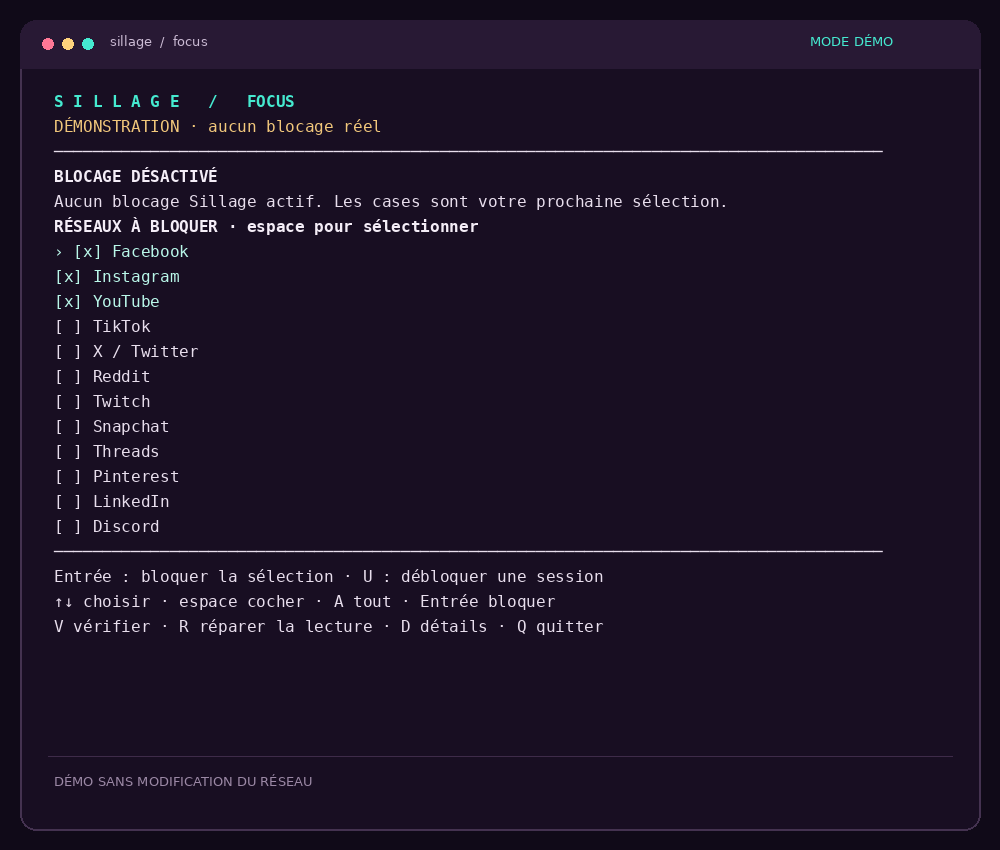
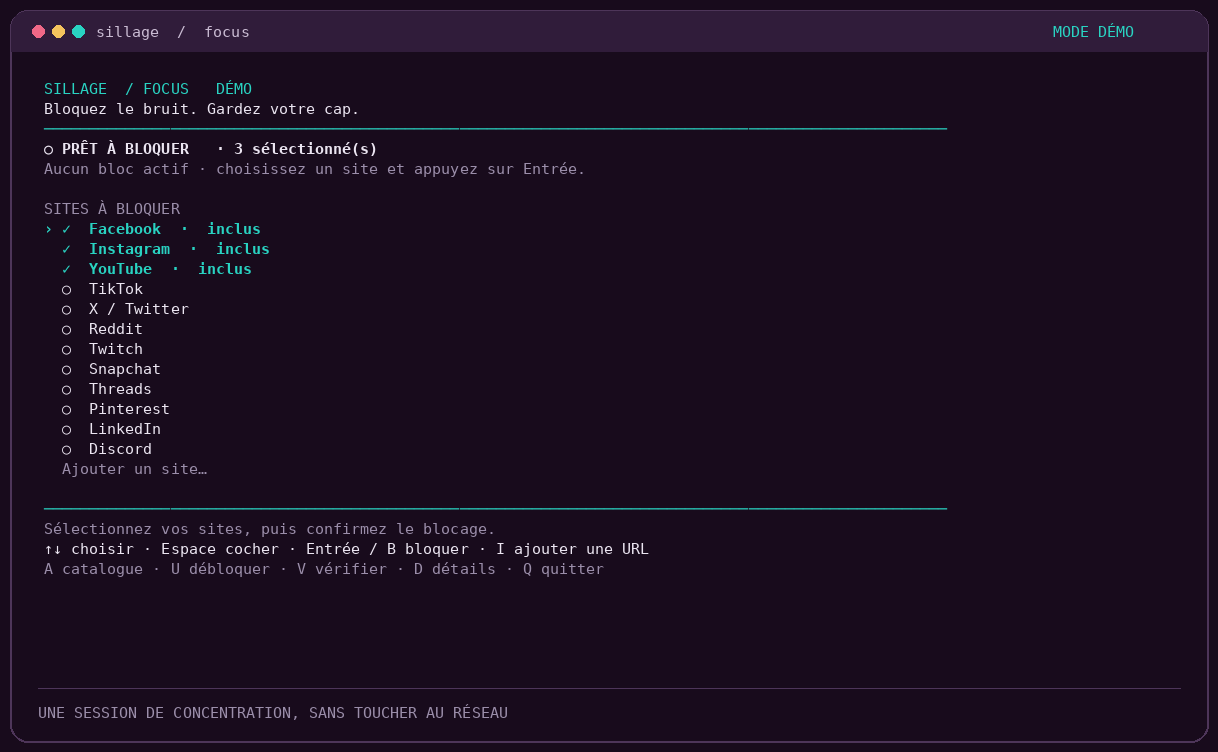
feat(ui): guide custom site blocking

Changed region(s): [[0.0, 0.0, 1.0, 1.0]]

diff --git a/src/ui.js b/src/ui.js
@@ -1,29 +1,20 @@
 import * as p from '@clack/prompts';
 import pc from 'picocolors';
-import { services, defaults, selectServices } from './catalog.js';
+import { services, defaults, selectServices, normalizeSite } from './catalog.js';
 
-const names = ids => selectServices(ids).map(item => item.name).join(', ');
-const checked = value => {
-  if (p.isCancel(value)) { p.cancel('Annulé. Aucune nouvelle modification.'); return null; }
-  return value;
-};
+const names = ids => ids.length ? selectServices(ids).map(item => item.name).join(' · ') : 'Sites personnalisés';
 
 export function banner(demo = false) {
-  const width = Math.max(24, Math.min(62, (process.stdout.columns || 80) - 4));
   console.log();
-  console.log(`  ${pc.cyan('━'.repeat(width))}`);
-  console.log(`  ${pc.bold('S I L L A G E')}  ${pc.cyan(' / CONCENTRATION')}`);
-  console.log('  Bloquez les distractions. Concentrez-vous.');
-  console.log(`  ${pc.cyan('━'.repeat(width))}`);
+  console.log(`  ${pc.bold(pc.cyan('SILLAGE'))}  ${pc.dim('/ FOCUS')}`);
+  console.log(`  Bloquez le bruit. Gardez votre cap.${demo ? pc.yellow('  ·  DÉMO') : ''}`);
   console.log();
-  if (demo) console.log(`  ${pc.bold('MODE DÉMO')} · aucun blocage réel\n`);
-
 }
 
 export function showStatus(state) {
   p.log.info(state.active
-    ? `${pc.green('CONCENTRATION')}\n${names(state.ids)}\n${pc.dim('Entrées présentes dans hosts · sillage unblock pour les retirer')}`
-    : `${pc.bold('BLOCAGE DÉSACTIVÉ')}\nLes réseaux sociaux restent accessibles.`);
+    ? `${pc.green('● SESSION ACTIVE')}\n${names(state.ids)}${state.customDomains?.length ? ` · ${state.customDomains.join(', ')}` : ''}`
+    : `${pc.dim('○ BLOCAGE DÉSACTIVÉ')}\nLes sites restent accessibles.`);
 }
 
 export async function interactive(hosts, demo) {
@@ -32,104 +23,161 @@ export async function interactive(hosts, demo) {
   const fs = await import('node:fs/promises');
   let state = await hosts.status();
   let selected = new Set(state.active ? state.ids : defaults);
-  let cursor = 0, pending = null, busy = false, details = false;
-  let message = 'Choisissez vos réseaux, puis appuyez sur B pour bloquer.';
-  let diagnostic = 'Non vérifié · V pour tester la résolution système';
+  let sites = new Set(state.active ? state.customDomains : []);
+  let cursor = 0, pending = null, busy = false, details = false, input = null;
+  let message = 'Sélectionnez vos sites, puis confirmez le blocage.';
+  let diagnostic = state.active ? 'Vérifiez la résolution avec V' : 'Votre sélection reste modifiable jusqu’à confirmation.';
   const output = process.stdout;
-  const clean = value => String(value).replace(/[\x00-\x1f\x7f]/g, ' ');
+  const rows = () => [
+    ...services.map(item => ({ id: item.id, label: item.name, checked: selected.has(item.id), type: 'service' })),
+    ...[...sites].map(domain => ({ id: domain, label: domain, checked: true, type: 'site' })),
+    { id: 'add', label: 'Ajouter un site…', checked: false, type: 'add' }
+  ];
+
   function render() {
-    const width = Math.max(20, Math.min(96, (output.columns || 80) - 4));
-    const rows = output.rows || 30;
-    const line = text => '  ' + clean(text).slice(0, width);
-    const visible = Math.max(1, Math.min(services.length, rows - 15));
-    const offset = Math.max(0, Math.min(cursor - visible + 1, services.length - visible));
-    const lines = [
-      '', pc.bold(pc.cyan(line('S I L L A G E   /   FOCUS'))),
-      line(demo ? 'DÉMONSTRATION · aucun blocage réel' : 'Votre espace de concentration'),
-      pc.cyan(line('─'.repeat(width))), '',
-      pc.bold(line(state.active ? (busy ? 'VÉRIFICATION EN COURS' : diagnostic.startsWith('RÉSOLUTION SYSTÈME BLOQUÉE') ? 'RÉSOLUTION BLOQUÉE' : 'SESSION ACTIVE · vérification requise') : 'BLOCAGE DÉSACTIVÉ')),
+    const width = Math.max(42, Math.min(112, (output.columns || 80) - 4));
+    const screenRows = output.rows || 30;
+    const line = text => {
+      let cells = 0;
+      return `  ${String(text).replace(/\x1b\[[0-9;]*m|[\x00-\x1a\x1c-\x1f\x7f]|./gu, token => {
+        if (token.startsWith('\x1b')) return token;
+        if (token.charCodeAt(0) < 32) return ' ';
+        return cells++ < width - 2 ? token : '';
+      })}`;
+    };
+    const items = rows();
+    cursor = Math.min(cursor, items.length - 1);
+    const visible = Math.max(3, Math.min(items.length, screenRows - 17));
+    const offset = Math.max(0, Math.min(cursor - visible + 1, items.length - visible));
+    const count = selected.size + sites.size;
+    const inputPreview = input === null ? '' : input.length > width - 16 ? `…${input.slice(-(width - 17))}` : input || 'https://exemple.com/page';
+    const actionHint = input !== null ? 'Entrée valider · Échap annuler' : pending ? 'O / Entrée confirmer · N / Échap annuler' : details ? `Fichier : ${state.file}` : state.active ? 'U débloquer · V vérifier · D détails · Q quitter' : '↑↓ choisir · Espace cocher · Entrée / B bloquer · I ajouter une URL';
+    const secondaryHint = input !== null ? 'Seul le domaine exact sera bloqué ; le chemin est ignoré.' : pending ? 'Vérifiez l’action avant de confirmer.' : details ? `Sauvegardes : ${state.backupDir}` : state.active ? 'Sélection verrouillée pendant la session.' : 'A catalogue · U débloquer · V vérifier · D détails · Q quitter';
+    const status = state.active
+      ? diagnostic.startsWith('RÉSOLUTION BLOQUÉE') ? '● SESSION BLOQUÉE' : '● SESSION ACTIVE · diagnostic requis'
+      : '○ PRÊT À BLOQUER';
+    const outputLines = [
+      '',
+      line(`${pc.bold(pc.cyan('SILLAGE'))}  ${pc.dim('/ FOCUS')}   ${demo ? pc.yellow('DÉMO') : pc.dim('CONCENTRATION')}`),
+      line('Bloquez le bruit. Gardez votre cap.'),
+      pc.cyan(line('─'.repeat(width))),
+      line(`${pc.bold(status)}   ${pc.dim(`· ${count} sélectionné(s)`)}`),
       line(diagnostic), '',
-      line(state.active ? 'RÉSEAUX DE LA SESSION' : 'RÉSEAUX À BLOQUER · espace pour sélectionner'),
-      ...services.slice(offset, offset + visible).map((item, i) => {
-        const text = line((i + offset === cursor ? '› ' : '  ') + (selected.has(item.id) ? '[x] ' : '[ ] ') + item.name);
-        return i + offset === cursor ? pc.bold(pc.cyan(text)) : text;
+      line(state.active ? 'SITES DE LA SESSION' : 'SITES À BLOQUER'),
+      ...items.slice(offset, offset + visible).map((item, index) => {
+        const actual = offset + index;
+        const prefix = actual === cursor ? '›' : ' ';
+        const checkbox = item.type === 'add' ? '+' : item.checked ? '✓' : '○';
+        const label = item.type === 'add' ? item.label : `${checkbox}  ${item.label}`;
+        const row = line(`${prefix} ${label}${item.type === 'service' && item.checked ? '  ·  inclus' : ''}`);
+        return actual === cursor ? pc.bold(pc.cyan(row)) : item.type === 'add' ? pc.dim(row) : row;
       }),
-      '', pc.cyan(line('─'.repeat(width))),
-      line(pending ? pending : busy ? 'Opération en cours…' : message),
-      line(pending ? 'O / Entrée : confirmer · N / Échap : annuler' : details ? 'Fichier : ' + state.file : state.active ? 'Sélection verrouillée pendant le blocage · U pour débloquer' : '↑↓ choisir · espace cocher · A tout · Entrée bloquer'),
-      line(details ? 'Sauvegardes : ' + state.backupDir : 'V vérifier · R réparer la lecture · D détails · Q quitter')
+      '',
+      pc.cyan(line('─'.repeat(width))),
+      line(input !== null ? `SITE › ${inputPreview}▏` : pending ? pending.label : busy ? 'Vérification en cours…' : message),
+      line(actionHint),
+      line(secondaryHint)
     ];
-    output.write('\x1b[H\x1b[2J' + lines.slice(0, rows - 1).join('\n'));
+    output.write(`\x1b[H\x1b[2J${outputLines.slice(0, screenRows - 1).join('\n')}`);
   }
+
   async function verify() {
-    if (!state.active) { diagnostic = 'Aucun blocage Sillage actif. Les cases sont votre prochaine sélection.'; message = 'Entrée : bloquer la sélection · U : débloquer une session'; return; }
-    if (demo) { diagnostic = 'Démo : résolution réseau non modifiée.'; return; }
+    if (!state.active) { diagnostic = 'Aucun bloc actif · choisissez un site et appuyez sur Entrée.'; return; }
+    if (demo) { diagnostic = 'Mode démo · aucune résolution système modifiée.'; return; }
     const mode = (await fs.stat(hosts.file)).mode & 0o777;
     if ((mode & 0o444) !== 0o444) {
-      diagnostic = 'HOSTS ILLISIBLE pour certains utilisateurs · R pour réparer';
-      message = 'La réparation autorise les utilisateurs locaux à lire hosts.';
+      diagnostic = 'Fichier hosts non lisible · le blocage peut être ignoré.';
+      message = 'U pour débloquer, puis Entrée pour réactiver avec les permissions requises.';
       return;
     }
-    const domains = selectServices(state.active ? state.ids : [...selected]).flatMap(s => s.domains);
-    const checks = await Promise.all(domains.map(async domain => {
+    const domains = [...(state.ids.length ? selectServices(state.ids).flatMap(item => item.domains) : []), ...state.customDomains];
+    const results = await Promise.all(domains.map(async domain => {
       let timer;
       try {
         const addresses = await Promise.race([
           lookup(domain, { all: true }),
           new Promise((_, reject) => { timer = setTimeout(() => reject(new Error('délai dépassé')), 3000); })
         ]);
-        return addresses.length && addresses.every(a => ['0.0.0.0', '::'].includes(a.address)) ? null : domain;
-      } catch { return domain + ' (indéterminé)'; }
+        return addresses.length && addresses.every(address => ['0.0.0.0', '::'].includes(address.address)) ? null : domain;
+      } catch { return `${domain} · DNS indéterminé`; }
       finally { clearTimeout(timer); }
     }));
-    const failed = checks.filter(Boolean);
-    diagnostic = failed.length ? 'À VÉRIFIER : ' + failed[0] : 'RÉSOLUTION SYSTÈME BLOQUÉE · ' + domains.length + ' domaines';
-    message = 'Le navigateur peut garder ses connexions : fermez-le complètement.';
+    const failed = results.find(Boolean);
+    diagnostic = failed ? `À VÉRIFIER · ${failed}` : `RÉSOLUTION BLOQUÉE · ${domains.length} domaines vérifiés`;
+    message = failed ? 'Vérifiez le DNS sécurisé, le VPN ou le proxy du navigateur.' : 'Fermez le navigateur pour couper les connexions déjà ouvertes.';
   }
+
   emitKeypressEvents(process.stdin);
   const wasRaw = process.stdin.isRaw;
   process.stdin.setRawMode(true);
+  process.stdin.resume();
   output.write('\x1b[?1049h\x1b[?25l');
   try {
     await verify();
-    if (!demo && state.active && diagnostic.startsWith('HOSTS ILLISIBLE')) {
-      pending = 'Réparer le blocage : rendre hosts lisible par les utilisateurs locaux ?';
-    }
+    if (!demo && state.active && diagnostic.startsWith('Fichier hosts non lisible')) pending = { type: 'repair', label: 'Rendre le fichier hosts lisible pour les utilisateurs locaux ?' };
     await new Promise(resolve => {
       const quit = () => { process.stdin.off('keypress', keypress); output.off('resize', render); resolve(); };
       const keypress = async (text, key = {}) => {
-        text = text?.toLowerCase();
+        text = text?.toLowerCase() ?? '';
         if (busy) return;
-        if (key.ctrl && key.name === 'c' || text === 'q') return quit();
+        if (key.ctrl && key.name === 'c') return quit();
+        if (input !== null) {
+          if (key.name === 'escape') { input = null; message = 'Ajout annulé.'; }
+          else if (key.name === 'backspace') input = Array.from(input).slice(0, -1).join('');
+          else if (key.name === 'return') {
+            try {
+              const domain = normalizeSite(input);
+              if (sites.has(domain)) message = `${domain} est déjà dans votre sélection.`;
+              else { sites.add(domain); message = `${domain} ajouté · ce domaine exact sera bloqué.`; }
+              input = null;
+            } catch (error) { message = error.message; }
+          } else if (!key.ctrl && !key.meta && text.length) input += text;
+          render();
+          return;
+        }
         if (pending) {
           if (key.name === 'escape' || text === 'n') { pending = null; render(); return; }
           if (text !== 'o' && key.name !== 'return') return;
           const action = pending; pending = null; busy = true; render();
           try {
-            if (action.startsWith('Bloquer')) await hosts.block([...selected]);
-            else if (action.startsWith('Débloquer')) await hosts.unblock();
+            if (action.type === 'block') await hosts.block([...selected], [...sites]);
+            else if (action.type === 'unblock') await hosts.unblock();
             else await hosts.repairPermissions();
             state = await hosts.status();
-            message = 'Opération terminée. Sauvegarde conservée.';
+            selected = new Set(state.ids); sites = new Set(state.customDomains);
+            message = 'Configuration enregistrée · sauvegarde conservée.';
             await verify();
           } catch (error) { message = friendlyError(error); }
           finally { busy = false; render(); }
           return;
         }
-        if (key.name === 'up') cursor = (cursor + services.length - 1) % services.length;
-        if (key.name === 'down') cursor = (cursor + 1) % services.length;
-        if (state.active && (text === ' ' || text === 'a')) message = 'Une session est active. Appuyez sur U pour débloquer avant de modifier la sélection.';
-        if (text === ' ' && !state.active) { const id = services[cursor].id; selected.has(id) ? selected.delete(id) : selected.add(id); }
-        if (text === 'a' && !state.active) selected = new Set(selected.size === services.length ? [] : services.map(s => s.id));
-        if (text === 'b' || key.name === 'return') {
-          if (state.active) message = 'Débloquez avec U avant de changer les réseaux.';
-          else if (!selected.size) message = 'Sélectionnez au moins un réseau avec espace.';
-          else pending = 'Bloquer ' + selected.size + ' réseaux et rendre hosts lisible localement ?';
+        if (text === 'q') return quit();
+        const items = rows();
+        if (key.name === 'up') cursor = (cursor + items.length - 1) % items.length;
+        if (key.name === 'down') cursor = (cursor + 1) % items.length;
+        if (key.name === 'backspace' && !state.active) {
+          const item = items[cursor];
+          if (item?.type === 'site') { sites.delete(item.id); message = `${item.id} retiré de la sélection.`; }
         }
-        if (text === 'u') pending = 'Débloquer les réseaux et arrêter la session ?';
-        if (text === 'r') pending = 'Rendre hosts lisible par tous les utilisateurs locaux ?';
-        if (text === 'd') details = !details;
-        if (text === 'v') {
+        const item = items[cursor];
+        if (state.active && (text === ' ' || text === 'a' || text === 'i')) message = 'Débloquez la session avec U avant de modifier les sites.';
+        else if (text === ' ' && item?.type === 'service') selected.has(item.id) ? selected.delete(item.id) : selected.add(item.id);
+        else if (text === ' ' && item?.type === 'site') sites.delete(item.id);
+        if (text === 'i' && !state.active || key.name === 'return' && item?.type === 'add') input = '';
+        else if (text === 'a' && !state.active) selected = new Set(selected.size === services.length ? [] : services.map(service => service.id));
+        else if (text === 'b' || key.name === 'return' && item?.type !== 'add') {
+          if (state.active) message = 'Débloquez la session avant de changer la sélection.';
+          else if (!selected.size && !sites.size) message = 'Cochez un site ou ajoutez une URL avant de continuer.';
+          else {
+            const parts = [];
+            if (selected.size) parts.push(`${selected.size} réseau${selected.size > 1 ? 'x' : ''}`);
+            if (sites.size) parts.push(`${sites.size} site${sites.size > 1 ? 's' : ''} personnalisé${sites.size > 1 ? 's' : ''}`);
+            pending = { type: 'block', label: `Bloquer ${parts.join(' et ')} ?` };
+          }
+        } else if (text === 'u') pending = { type: 'unblock', label: 'Débloquer les sites et arrêter la session ?' };
+        else if (text === 'r') pending = { type: 'repair', label: 'Rendre hosts lisible par les utilisateurs locaux ?' };
+        else if (text === 'd') details = !details;
+        else if (text === 'v') {
           busy = true; render();
           try { await verify(); } catch (error) { message = friendlyError(error); }
           busy = false;
@@ -148,7 +196,7 @@ export async function interactive(hosts, demo) {
 }
 
 export function friendlyError(error) {
-  if (['EACCES', 'EPERM'].includes(error.code)) return 'Droits insuffisants pour accéder à hosts ou à ses sauvegardes. Relancez la même commande avec sudo. Le mode --demo fonctionne sans sudo.';
-  if (error.code === 'EBUSY') return 'hosts est monté ou verrouillé par le système. Remplacement atomique impossible ; aucune réécriture en place ne sera tentée.';
+  if (['EACCES', 'EPERM'].includes(error.code)) return 'Droits insuffisants pour accéder à hosts ou à ses sauvegardes. Autorisez la demande système puis réessayez.';
+  if (error.code === 'EBUSY') return 'hosts est monté ou verrouillé. Aucune réécriture en place ne sera tentée.';
   return error.message;
 }
